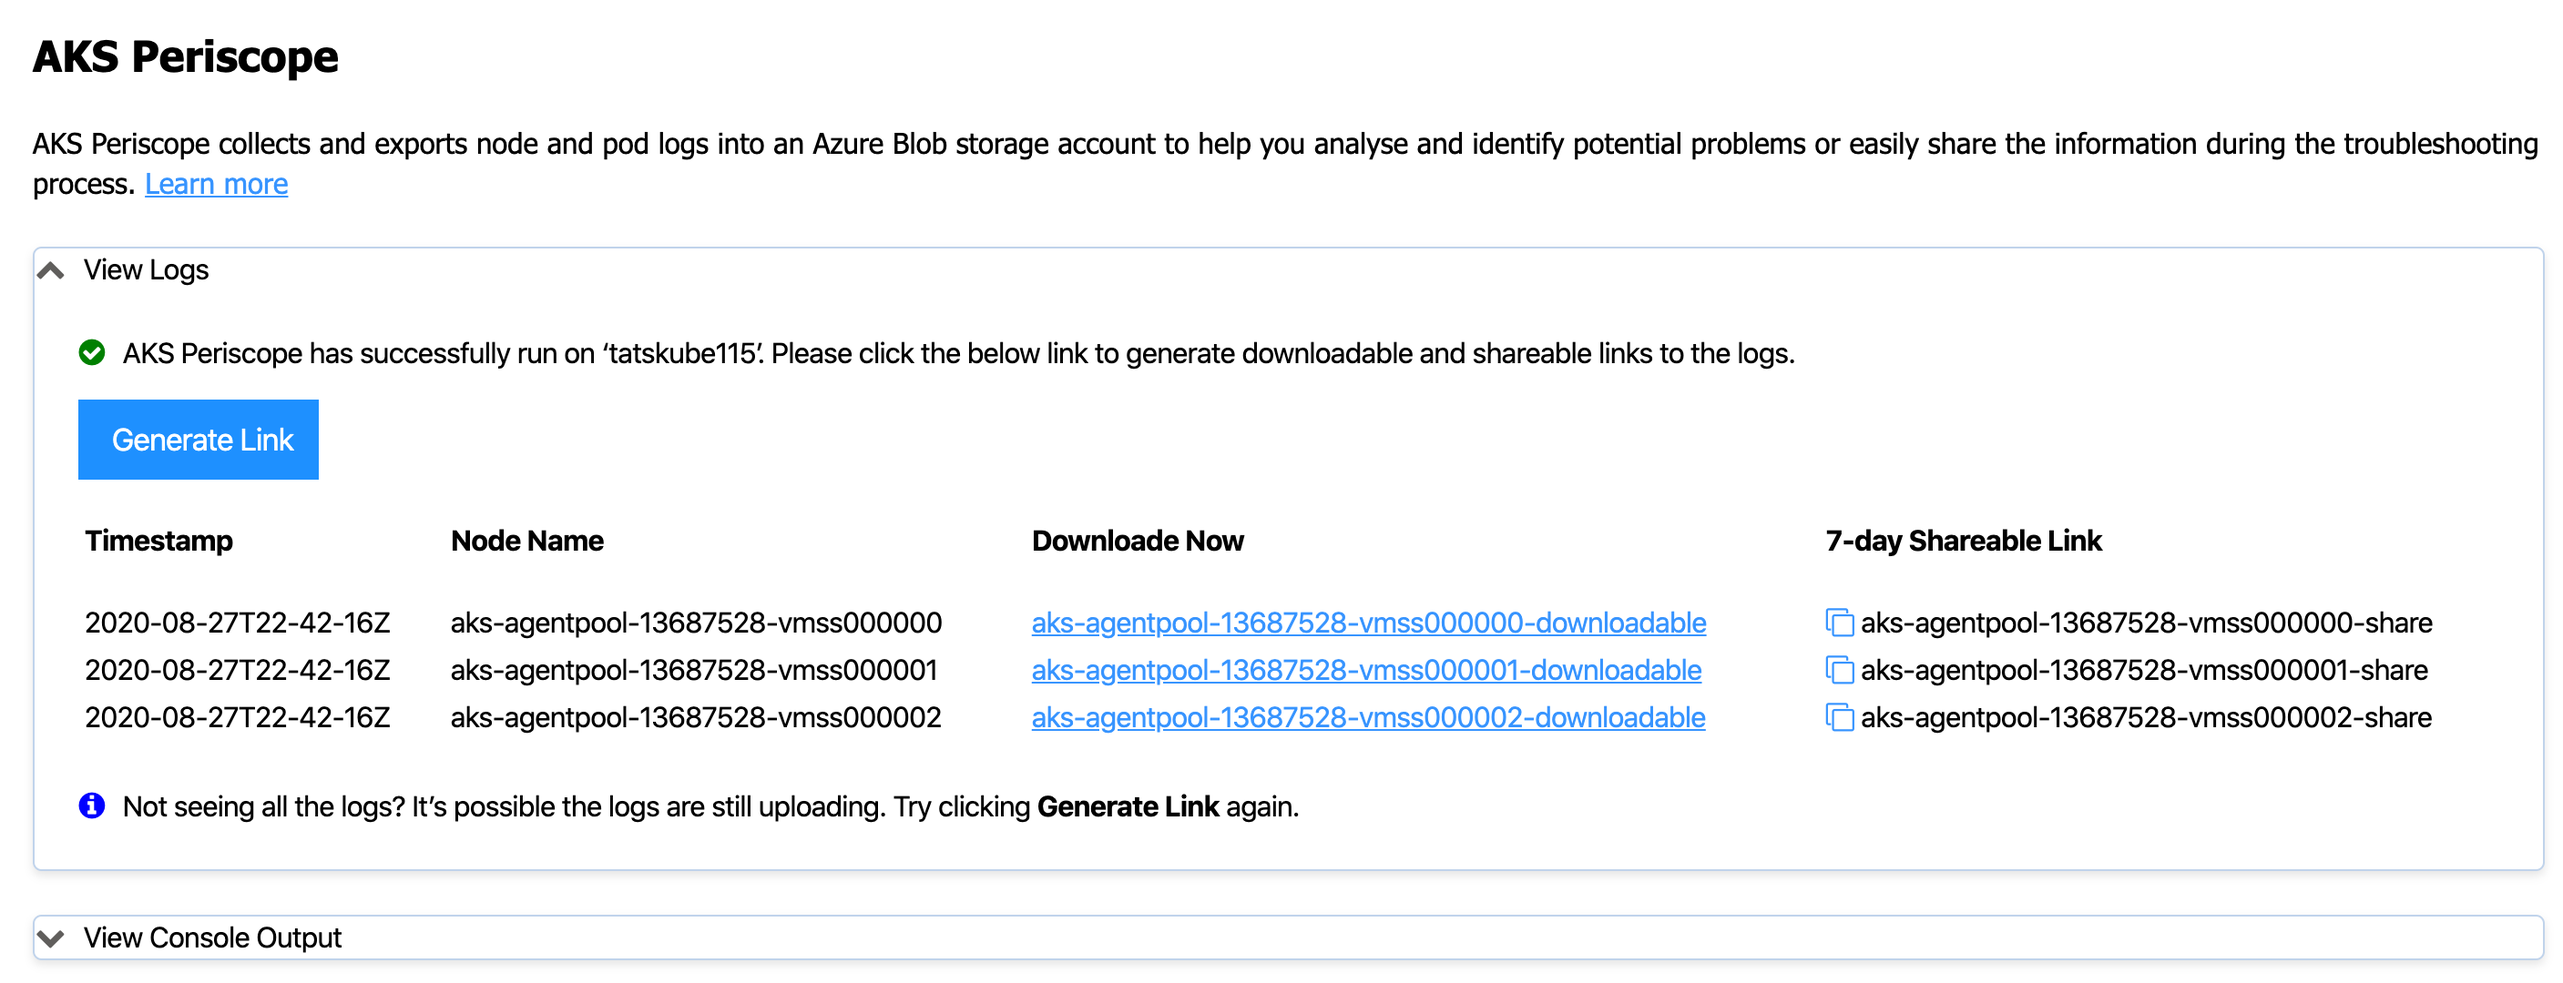
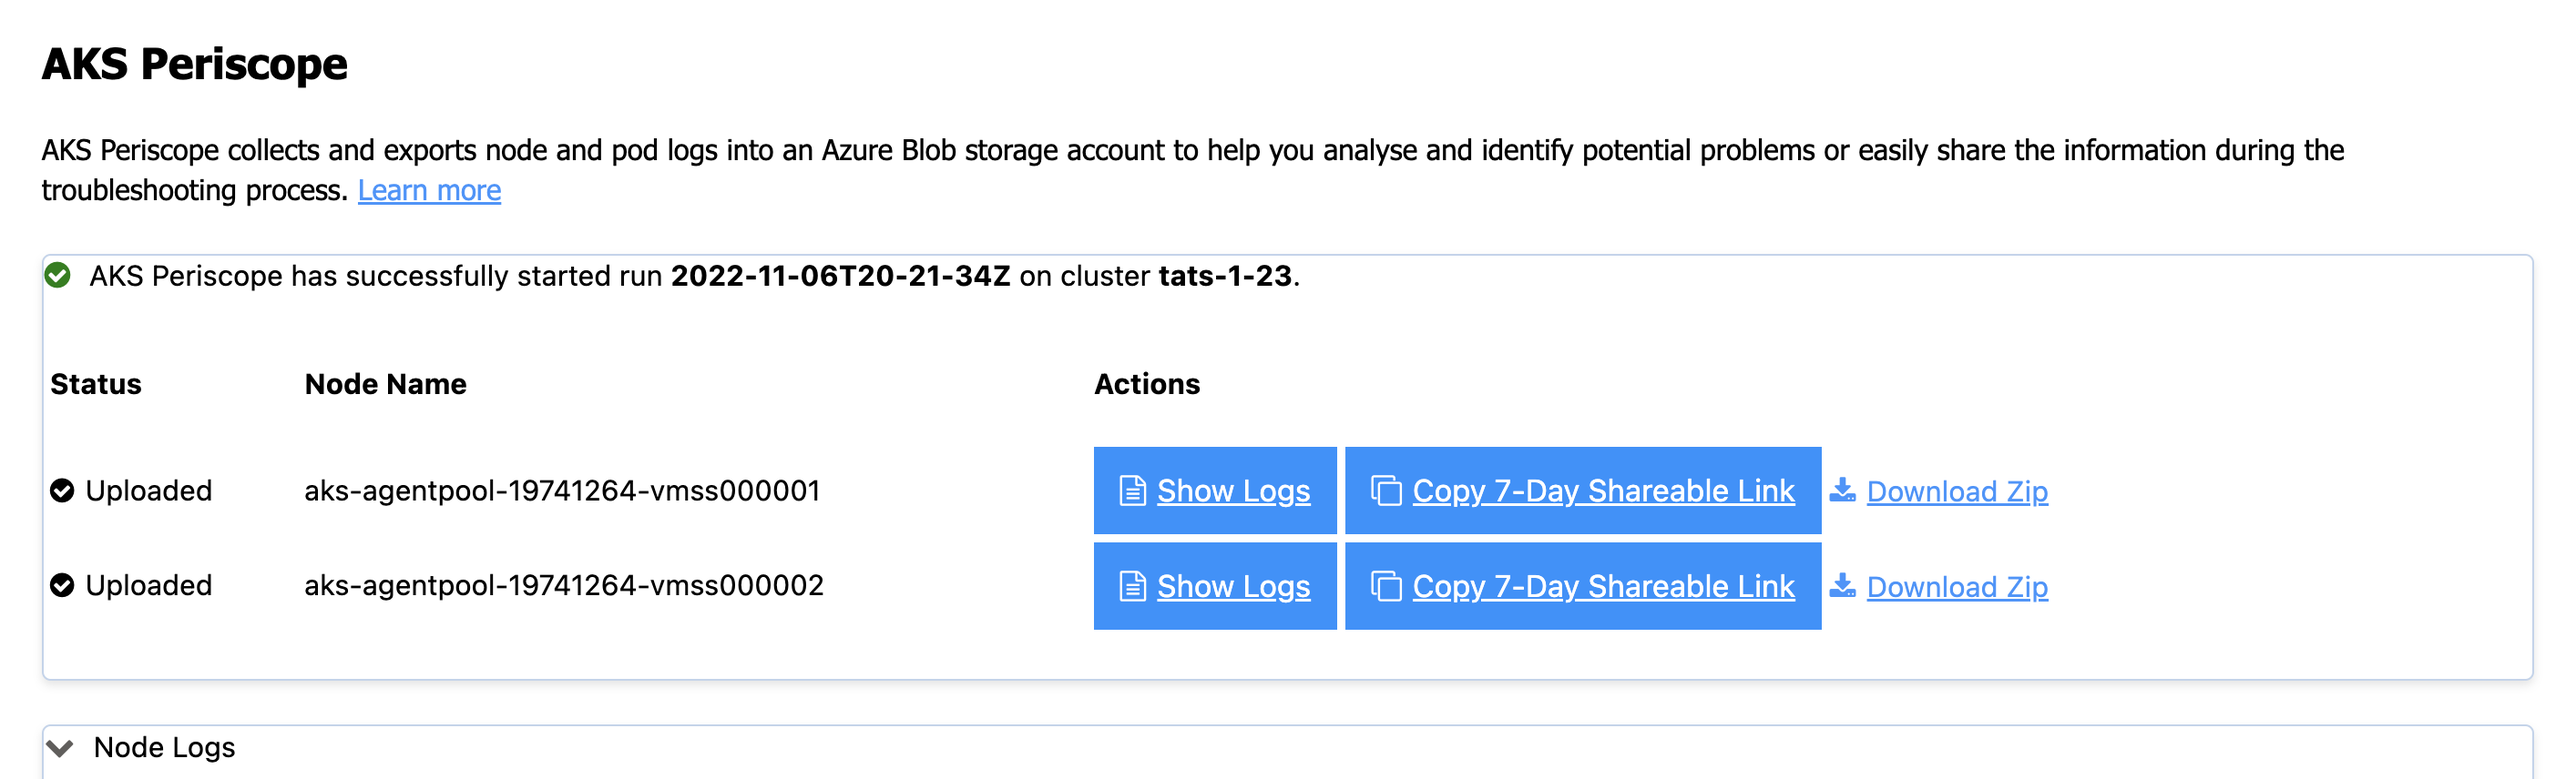
Publish 1.3.5 changes. (#169)

diff --git a/CHANGELOG.md b/CHANGELOG.md
@@ -1,5 +1,14 @@
 # Change Log
 
+## [1.3.5]
+
+* Generate periscope links from run ID.
+* Kubectl get events feature.
+* Update ASO usage to latest.
+* Auto updates for Starter Workflow.
+
+ Thanks to @rzhang628 and @peterbom.
+
 ## [1.3.4]
 
 * Enable quick and easy way to run some kubectl commands on the selected AKS cluster.

diff --git a/README.md b/README.md
@@ -141,6 +141,7 @@ Right click on your AKS cluster and click on **Run Kubectl Commands** to easily 
 - API Resources
 - Get Cluster Info
 - Get Node
+- Get All Events
 
 ## Telemetry
 
